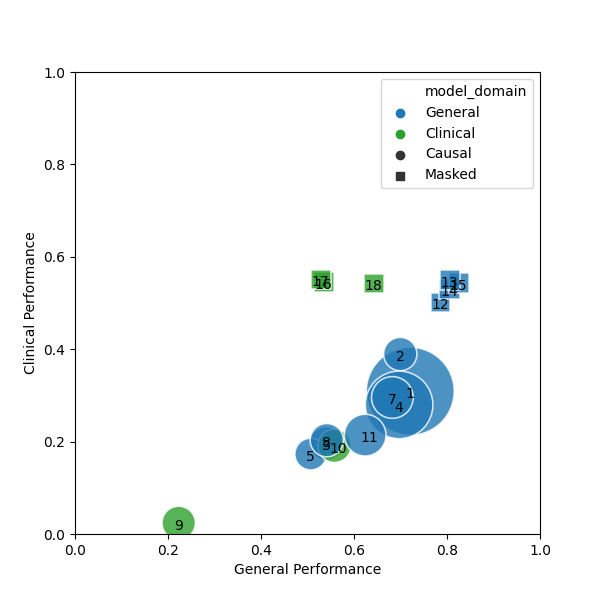
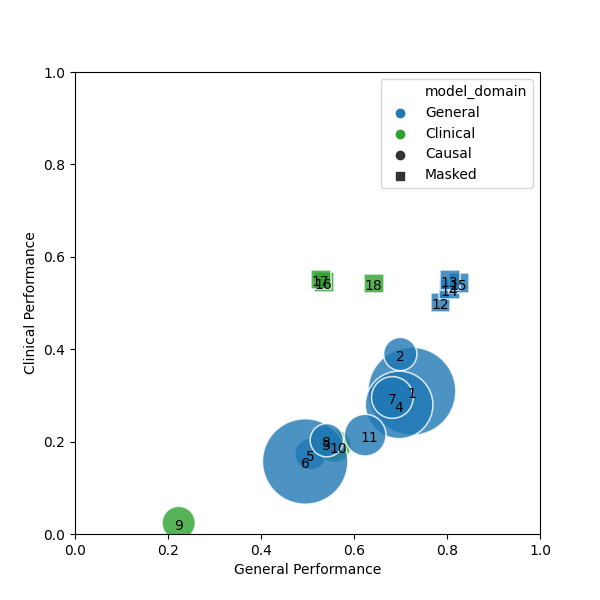
res

diff --git a/result_tabs_and_plots/results_table.tex b/result_tabs_and_plots/results_table.tex
@@ -6,13 +6,13 @@
 \midrule
 \multicolumn{16}{l}{\textit{Few-shot approaches}} \\
 \midrule
-\multirow{11}{*}{\rotatebox[origin=c]{90}{Causal}} & 1- LLAMA-70B & - & 0.721 & - & 0.309 & - & - & - & - & 0.201 & 0.312 & - & - & - & - \\
+\multirow{11}{*}{\rotatebox[origin=c]{90}{Causal}} & 1- LLAMA-70B & 0.728 & 0.721 & - & 0.309 & - & - & - & - & 0.201 & 0.312 & - & - & - & - \\
  & 2- Mistral-7B & 0.754 & 0.645 & 0.488 & 0.291 & - & 0.727 & - & 0.59 & 0.229 & 0.333 & 0.72 & 0.707 & 0.083 & - \\
- & 3- BLOOM-7B1 & 0.524 & 0.557 & 0.279 & 0.113 & - & 0.143 & - & 0.32 & 0.166 & 0.12 & 0.0 & 0.419 & 0.051 & - \\
+ & 3- BLOOM-7B1 & 0.524 & 0.557 & 0.279 & 0.113 & - & 0.143 & - & 0.32 & 0.197 & 0.12 & 0.0 & 0.419 & 0.051 & - \\
  & 4- Falcon-40B & 0.686 & 0.708 & 0.28 & 0.279 & - & 0.662 & - & 0.378 & - & 0.283 & 0.72 & 0.543 & 0.072 & - \\
  & 5- GPT-J-6B & 0.521 & 0.493 & 0.167 & 0.179 & - & 0.423 & - & 0.334 & 0.08 & 0.177 & 0.005 & 0.142 & 0.021 & - \\
- & 6- OPT-66B & - & 0.495 & - & - & - & - & - & - & 0.206 & 0.283 & - & - & - & - \\
- & 7- Vicuna-13B & 0.657 & 0.708 & 0.355 & 0.236 & - & 0.677 & - & 0.399 & - & 0.326 & - & 0.25 & 0.04 & - \\
+ & 6- OPT-66B & - & 0.495 & - & 0.157 & - & - & - & - & 0.206 & 0.283 & - & - & - & - \\
+ & 7- Vicuna-13B & 0.657 & 0.708 & 0.355 & 0.236 & - & 0.677 & - & 0.399 & - & 0.326 & 0.744 & 0.25 & 0.04 & - \\
  & 8- Vicuna-7B & 0.594 & 0.489 & 0.259 & 0.147 & - & 0.591 & - & 0.439 & 0.152 & 0.296 & 0.659 & 0.569 & 0.042 & - \\
  & 9- BioMedLM & - & 0.223 & 0.024 & - & - & - & - & - & - & 0.019 & - & - & - & - \\
  & 10- Medalpaca-7B & - & 0.558 & - & 0.191 & - & - & - & - & 0.161 & 0.224 & - & - & - & - \\
@@ -37,6 +37,8 @@
 \midrule
 \multicolumn{16}{l}{\textit{Masked fully-supervised (skyline)}} \\
 \midrule
- & RoBERTa-large & 0.939 & 0.712 & - & - & - & - & - & - & - & - & - & - & - & - \\
+ & RoBERTa-large & 0.919 & 0.939 & 0.718 & 0.712 & - & - & - & - & - & - & - & - & - & - \\
+ & CamemBERT-large & - & - & - & - & - & - & - & - & 0.748 & 0.713 & - & - & - & - \\
+ & BETO & - & - & - & - & - & - & - & - & - & - & 0.918 & 0.881 & - & - \\
 \bottomrule
 \end{tabular}}
